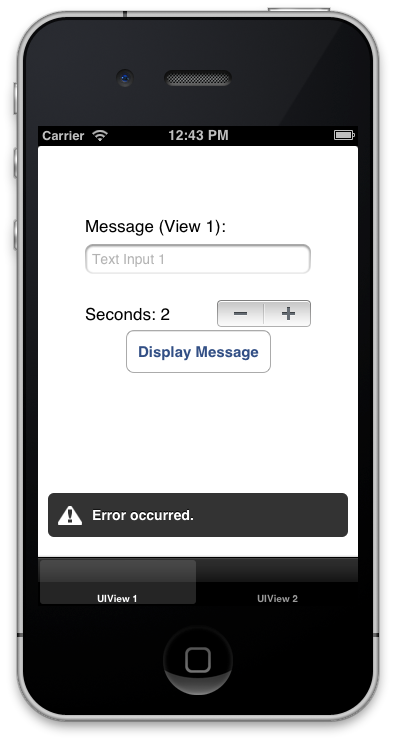
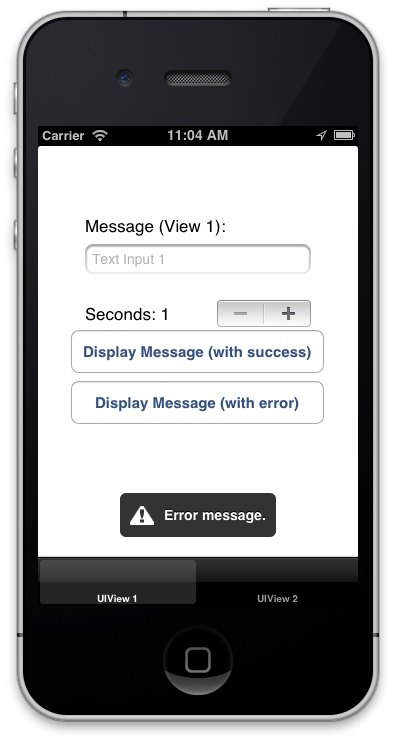
Don't force max width item views.

diff --git a/Demo/JCActivityBarDemo/JCActivityBarDemoViewController.m b/Demo/JCActivityBarDemo/JCActivityBarDemoViewController.m
@@ -37,7 +37,7 @@
   [self.view addSubview:self.activityBar];
 }
 
-- (IBAction) displayMessageButtonTapped:(UIButton*)sender {
+- (IBAction) displayMessageWithSuccessButtonTapped:(UIButton*)sender {
   [self.messageTextField resignFirstResponder];
 
   sender.enabled = NO;
@@ -47,6 +47,19 @@
   dispatch_after(popTime, dispatch_get_main_queue(), ^(void){
     sender.enabled = YES;
     [self.activityBar finishWithSuccess:@"Finished! (With rather long explanatory message that will likely overflow onto multiple lines.)"];
+  });
+}
+
+- (IBAction) displayMessageWithErrorButtonTapped:(UIButton*)sender {
+  [self.messageTextField resignFirstResponder];
+
+  sender.enabled = NO;
+  [self.activityBar displayActivityWithMessage:self.messageTextField.text];
+  float delayInSeconds = self.secondsDelayStepper.value;
+  dispatch_time_t popTime = dispatch_time(DISPATCH_TIME_NOW, delayInSeconds * NSEC_PER_SEC);
+  dispatch_after(popTime, dispatch_get_main_queue(), ^(void){
+    sender.enabled = YES;
+    [self.activityBar finishWithError:@"Error message."];
   });
 }
 

diff --git a/Library/JCActivityBarItemView.m b/Library/JCActivityBarItemView.m
@@ -53,12 +53,13 @@ static CGFloat const kJCActivityBarItemViewPadding = 10.0;
   CGSize messageSize = [message sizeWithFont:self.messageLabel.font
                            constrainedToSize:CGSizeMake(maxMessageWidth, maxMessageHeight)];
 
-  messageSize.height = fmaxf(messageSize.height, kJCActivityBarItemViewImageSize);
+  CGFloat width = fmaxf(messageSize.width, kJCActivityBarItemViewImageSize)
+    + (kJCActivityBarItemViewPadding * 3)
+    + kJCActivityBarItemViewImageSize;
+  CGFloat height = fmaxf(messageSize.height, kJCActivityBarItemViewImageSize)
+    + (kJCActivityBarItemViewPadding * 2);
 
-  messageSize.width = maxWidth;
-  messageSize.height += (kJCActivityBarItemViewPadding * 2);
-
-  return messageSize;
+  return CGSizeMake(width, height);
 }
 
 @end
